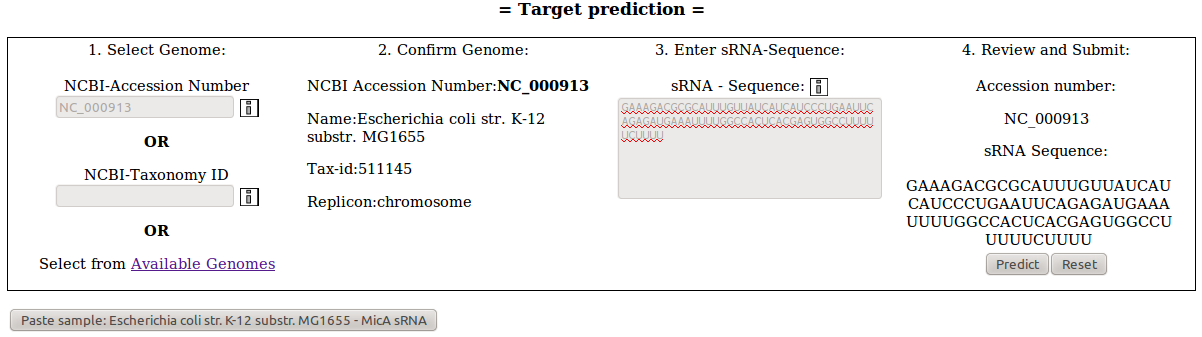
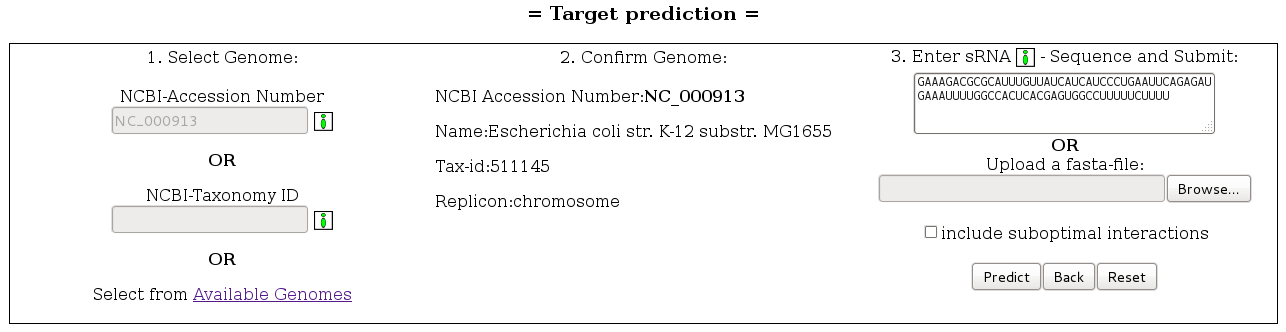
Included description of suboptimals on the help-page, added the parameters of RNAplex,up,plfold to the help page and updated the input-picture. The checkbox labeling for the suboptimals was changed from compute to include

diff --git a/help.html b/help.html
@@ -38,7 +38,7 @@
 	interactions in bacteria. Currently targets can be searched in more
 	than 1300 bacterial species. RNApredator uses a dynamic programming
 	approach to compute putative targets. The main machinery used by
-	RNApredator to find targets is the program called <a href="http://www.bioinf.uni-leipzig.de/Software/RNAplex/">RNAplex</a>.
+	RNApredator to find targets is the program called <a href="http://www.bioinf.uni-leipzig.de/Software/RNAplex/">RNAplex (Version 1.8.4)</a>.
 	Post-processing steps allow to look at accessibility differences on
 	the target mRNA before and after the binding of the sRNAs. It is
 	further possible to make a Gene Ontology(GO) and pathways (KEGG) term
@@ -53,6 +53,9 @@
 	desired genome has been selected, a sRNA sequence should be entered,
 	without line breaks and without header. The target search is launched
 	after the predict button has been pressed. 
+      </p>
+      <p>
+	Enabling the "include suboptimal interactions" checkbox adds suboptimal results to the result list.
       </p>
       <p>An alternative way to enter the genome of interest is to choose it
 	from a tree containing all available
@@ -79,9 +82,22 @@
 	  can be selected for target search by clicking on the node designation</i></font>
       <br>
       
+      <p style="margin-top: 0.17in;"><font face="Albany, sans-serif"><font size=4>Processing</font></font></p>
+      <p style="margin-bottom: 0in">The results are calculated as follows:<br>
+	RNAplex is called with the parameter interaction length set to 30 and precomputed accessibilities produced with RNAplfold (Version 1.8.4)
+	for the mRNAs and RNAup (Version 1.8.4) for the sRNAs.
+	If suboptimal interactions were requested additionally an energy-threshold of -8 and a duplex distance of 20 is used running RNAplex. 
+	The <a href="http://www.tbi.univie.ac.at/~ronny/RNA/RNAplex.html">RNAplex man page</a> gives a detailed explanation of these parameters.
+	</p>
+      <p style="margin-bottom: 0in">
+	RNAplfold calculation of the mRNA accessiblities was performed with window-size (-W) set to 240, span (-L) to 160, length of the unstructured region to 30, requesting opening energies (-O) (see <a href="http://www.tbi.univie.ac.at/~ronny/RNA/RNAplfold.html">RNAplfold man-page</a> for details).
+	RNAup computation of sRNA accessibility is called with the parameter for length of the unstructured region (-u) set to 40 or the sequence lenght if shorter
+	(see <a href="http://www.tbi.univie.ac.at/~ronny/RNA/RNAup.html">RNAup man-page</a> for details).
+      </p>
+      
       <p style="margin-top: 0.17in;"><font face="Albany, sans-serif"><font size=4>Output</font></font></p>
       <p style="margin-bottom: 0in">The webserver outputs a list of
-	sRNA-mRNA interactions which
+	sRNA-mRNA interactions (including suboptimal interactions if enabled in input), which
 	is sorted based on the energy of
 	interaction returned by the
 	dynamic programming approach. It is
@@ -101,7 +117,7 @@
 	
       </p>
       <p style="margin-bottom: 0in">It is also possible to select a set of
-	interations of interst and post-process them. The post-processing
+	interations of interest and post-process them. The post-processing
 	step will return a list of significantly enriched GO/KEGG terms as
 	well as the variation in accessibility around the ribosomal target
 	site before and after the binding of the sRNA.</p>

diff --git a/javascript/input.js b/javascript/input.js
@@ -146,7 +146,7 @@ function tax_id_confirm(ref){
         //"<br>Provide email-address(optional):<br>"+
         //"<input id=\"email-address\"  value=\"\" name=\"email\" type=\"text\" maxlength=\"50\"><br>"+
         "<div id=\"email_message\"></div>"+
-	"<br><input type=\"checkbox\" id=\"suboptimal_toggle\" name=\"suboptimal_toggle\" value=\"on\">compute suboptimal interactions<br>"+
+	"<br><input type=\"checkbox\" id=\"suboptimal_toggle\" name=\"suboptimal_toggle\" value=\"on\">include suboptimal interactions<br>"+
         "<br><input type=\"button\" value=\"Predict\" onclick=\"accession_submitter(this)\">"+
         "<input type=\"reset\" value=\"Back\" onclick=\"tax_id_confirm_back(this)\" >"+
         "<input type=\"reset\" value=\"Reset\" onclick=\"reseter(this)\" >"+
@@ -373,7 +373,7 @@ function accession_confirm(ref){
         //"<br>Provide email-address (optional):"+
         //"<input id=\"email-address\"  value=\"\" name=\"email\" type=\"text\" maxlength=\"30\"><br>"+
 	"<div id=\"email_message\"></div>"+
-	"<br><input type=\"checkbox\" id=\"suboptimal_toggle\" name=\"suboptimal_toggle\" value=\"on\">compute suboptimal interactions<br>"+
+	"<br><input type=\"checkbox\" id=\"suboptimal_toggle\" name=\"suboptimal_toggle\" value=\"on\">include suboptimal interactions<br>"+
         "<br><input type=\"button\" value=\"Predict\" onclick=\"accession_submitter(this)\">"+
         "<input type=\"reset\" value=\"Back\" onclick=\"accession_confirm_back(this)\" >"+
         "<input type=\"reset\" value=\"Reset\" onclick=\"reseter(this)\" >"+
